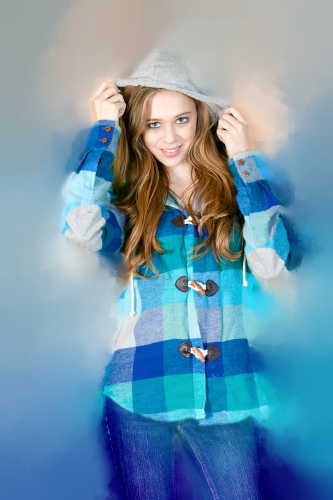
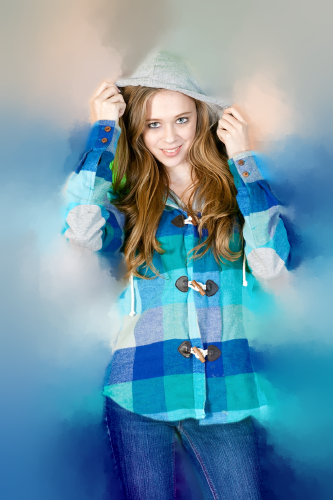
Run with updated code

diff --git a/u2net_alphamatting2/u2net_test.py b/u2net_alphamatting2/u2net_test.py
@@ -57,28 +57,9 @@ def save_output(image_name,pred,d_dir):
 def main():
 
     # --------- 1. get image path and name ---------
-    model_name='u2net'#u2netp
+    model_name='u2net'
 
-
-
-    image_dir = os.path.join(os.getcwd(), 'test_data', 'test_images')
-    prediction_dir = os.path.join(os.getcwd(), 'test_data', model_name + '_results' + os.sep)
-    model_dir = os.path.join(os.getcwd(), 'saved_models', model_name, model_name + '.pth')
-
-    img_name_list = glob.glob(image_dir + os.sep + '*')
-    print(img_name_list)
-
-    # --------- 2. dataloader ---------
-    #1. dataloader
-    test_salobj_dataset = SalObjDataset(img_name_list = img_name_list,
-                                        lbl_name_list = [],
-                                        transform=transforms.Compose([RescaleT(320),
-                                                                      ToTensorLab(flag=0)])
-                                        )
-    test_salobj_dataloader = DataLoader(test_salobj_dataset,
-                                        batch_size=1,
-                                        shuffle=False,
-                                        num_workers=1)
+    model_dir = os.path.join(os.path.expanduser('~/data'), model_name, model_name + '.pth')
 
     # --------- 3. model define ---------
     if(model_name=='u2net'):
@@ -94,20 +75,14 @@ def main():
     net.eval()
 
     # --------- 4. inference for each image ---------
-    #for i_test, data_test in enumerate(test_salobj_dataloader):
-    input_paths = ["test_data/test_images/horse.jpg"]
     input_paths = ["Girl_in_front_of_a_green_background.jpg"]
 
     for path in input_paths:
-
-        #print("inferencing:",img_name_list[i_test].split(os.sep)[-1])
-
-        #inputs_test = data_test['image']
-
         image = Image.open(path).convert("RGB")
 
         width, height = image.size
 
+        # resize to prevent out of memory error
         scale = 500.0 / max(width, height)
 
         width = int(scale * width)
@@ -149,11 +124,11 @@ def main():
 
         trimap = 0.5 * (np.ones_like(pred) + is_foreground - is_background)
 
-        from pymatting import estimate_alpha_cf, estimate_foreground_ml, stack_images, save_image, estimate_alpha_lkm
+        from pymatting import estimate_foreground_ml, stack_images, save_image, estimate_alpha_lkm
 
         print("alpha matting")
 
-        alpha = estimate_alpha_lkm(image0, trimap, laplacian_kwargs=dict(radius=20))
+        alpha = estimate_alpha_lkm(image0, trimap, laplacian_kwargs=dict(radius=10))
 
         print("foreground estimation")
 
